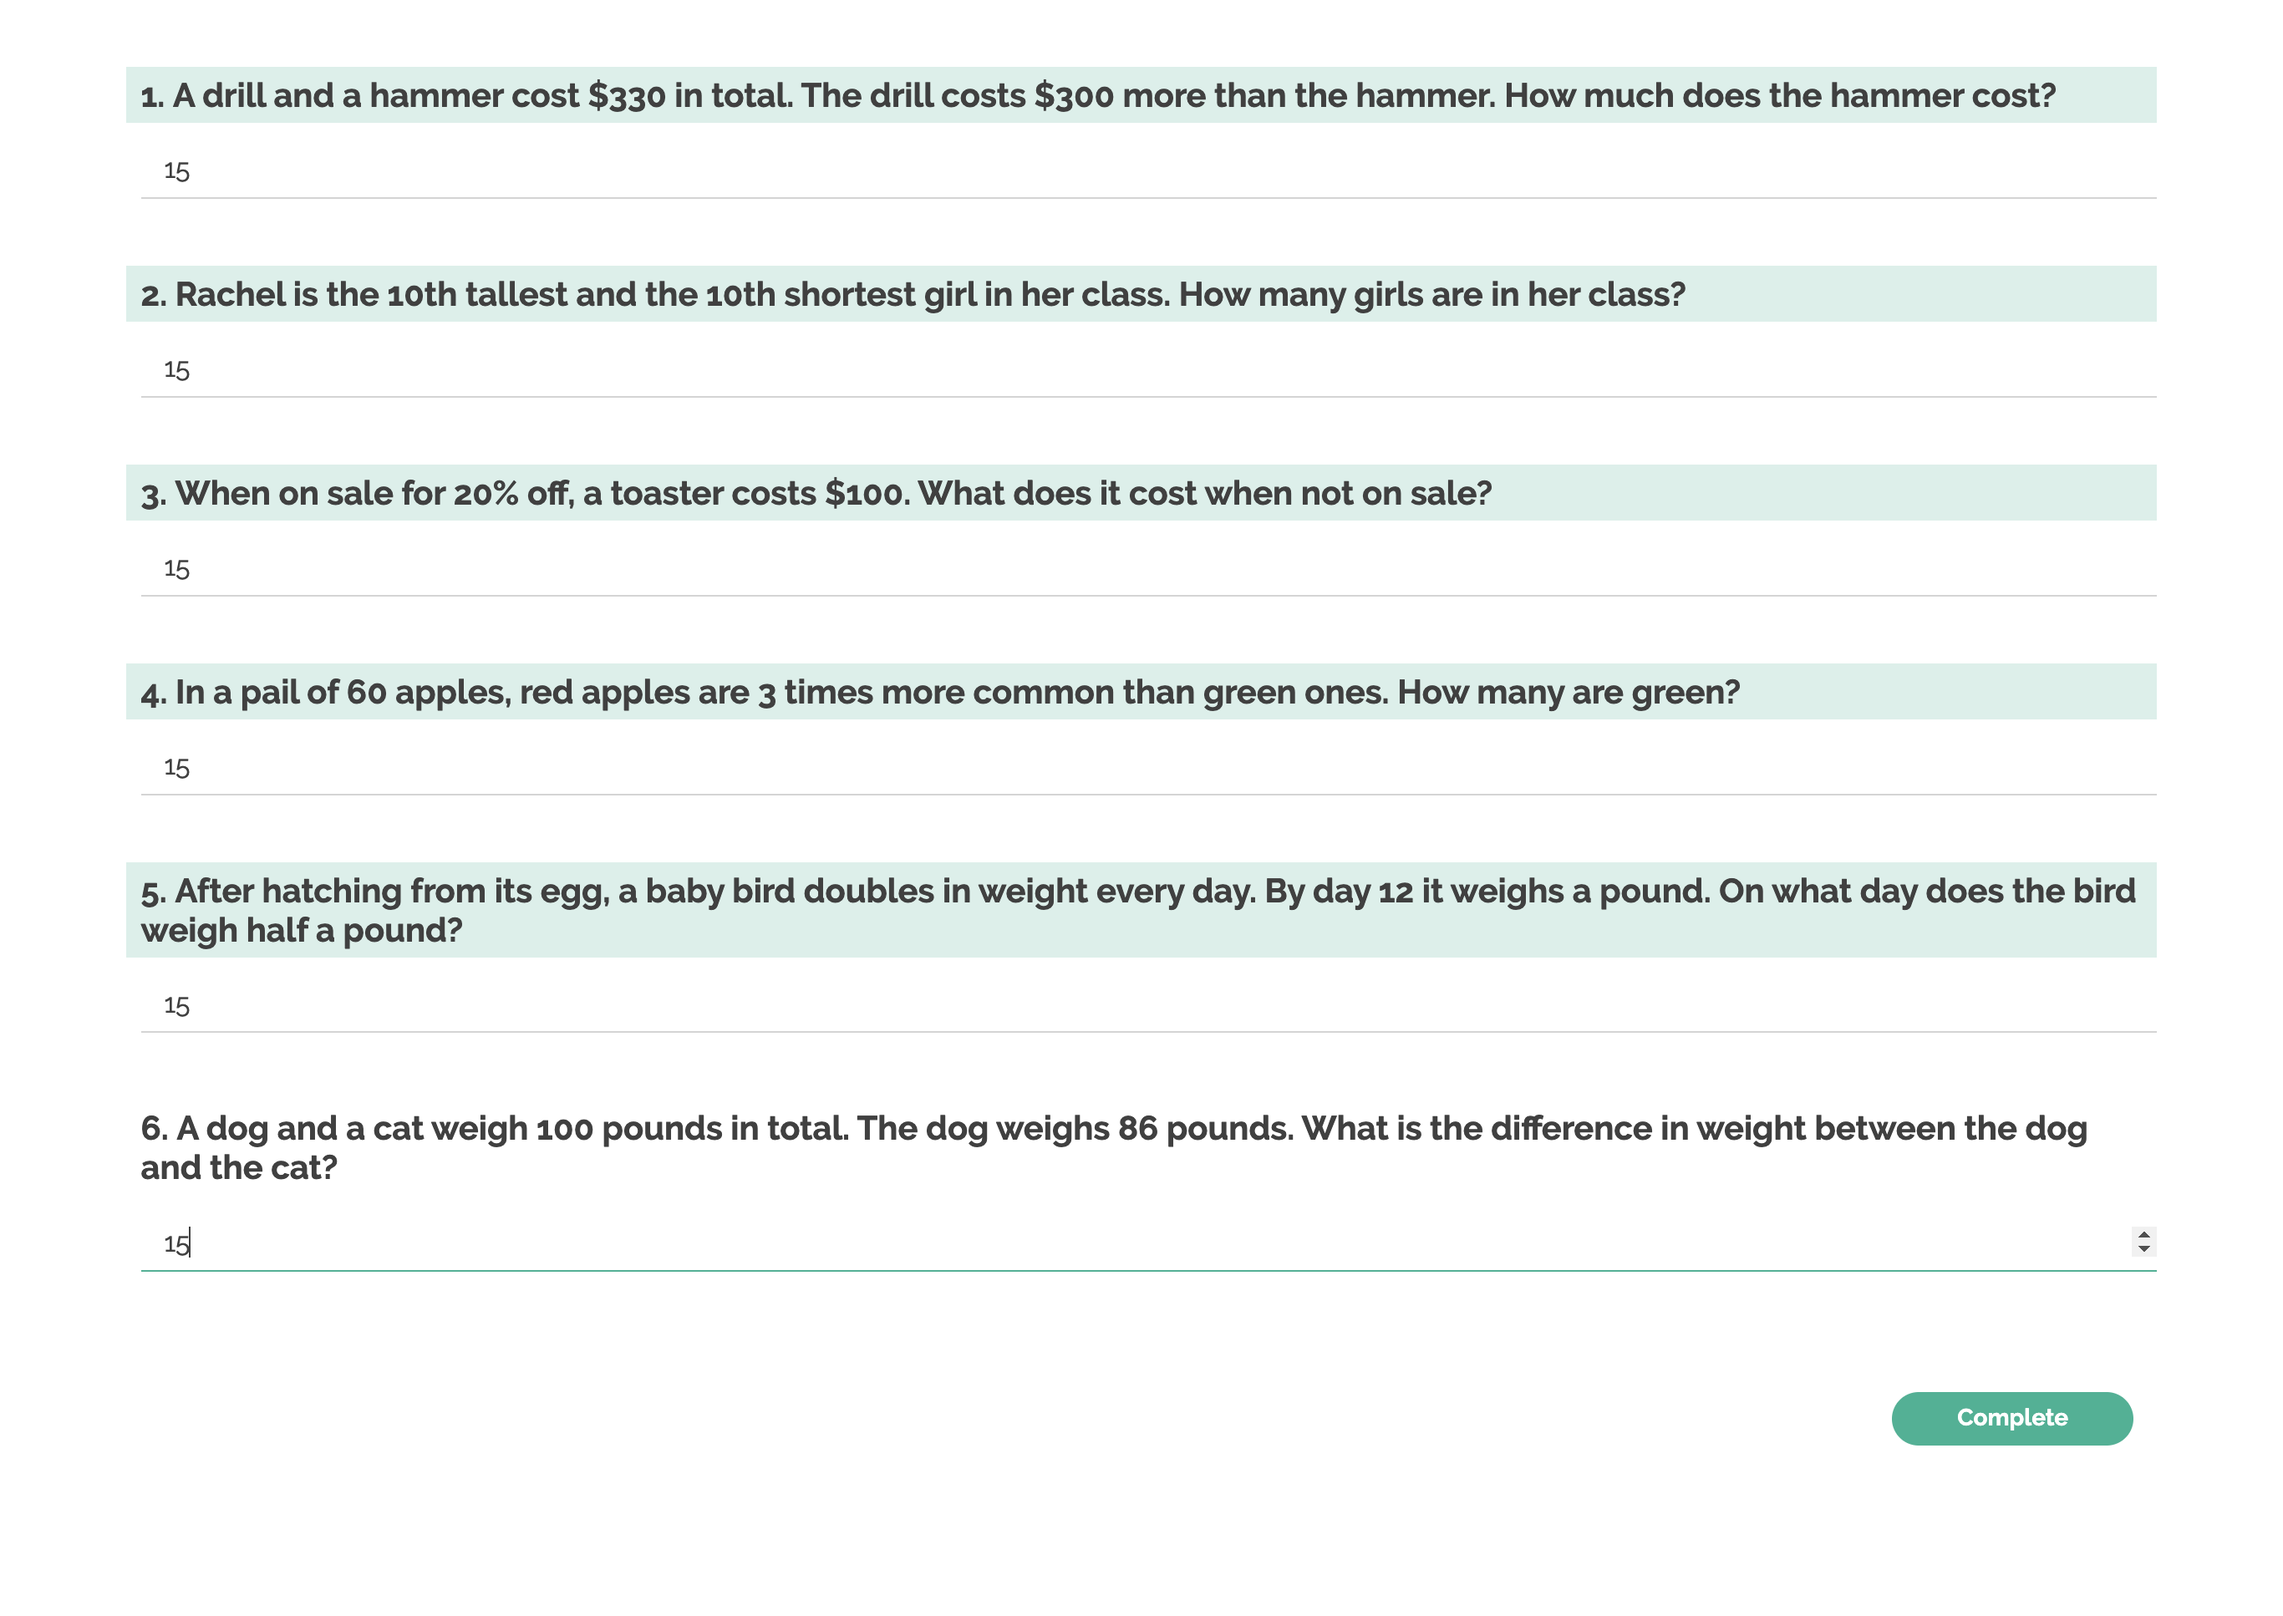
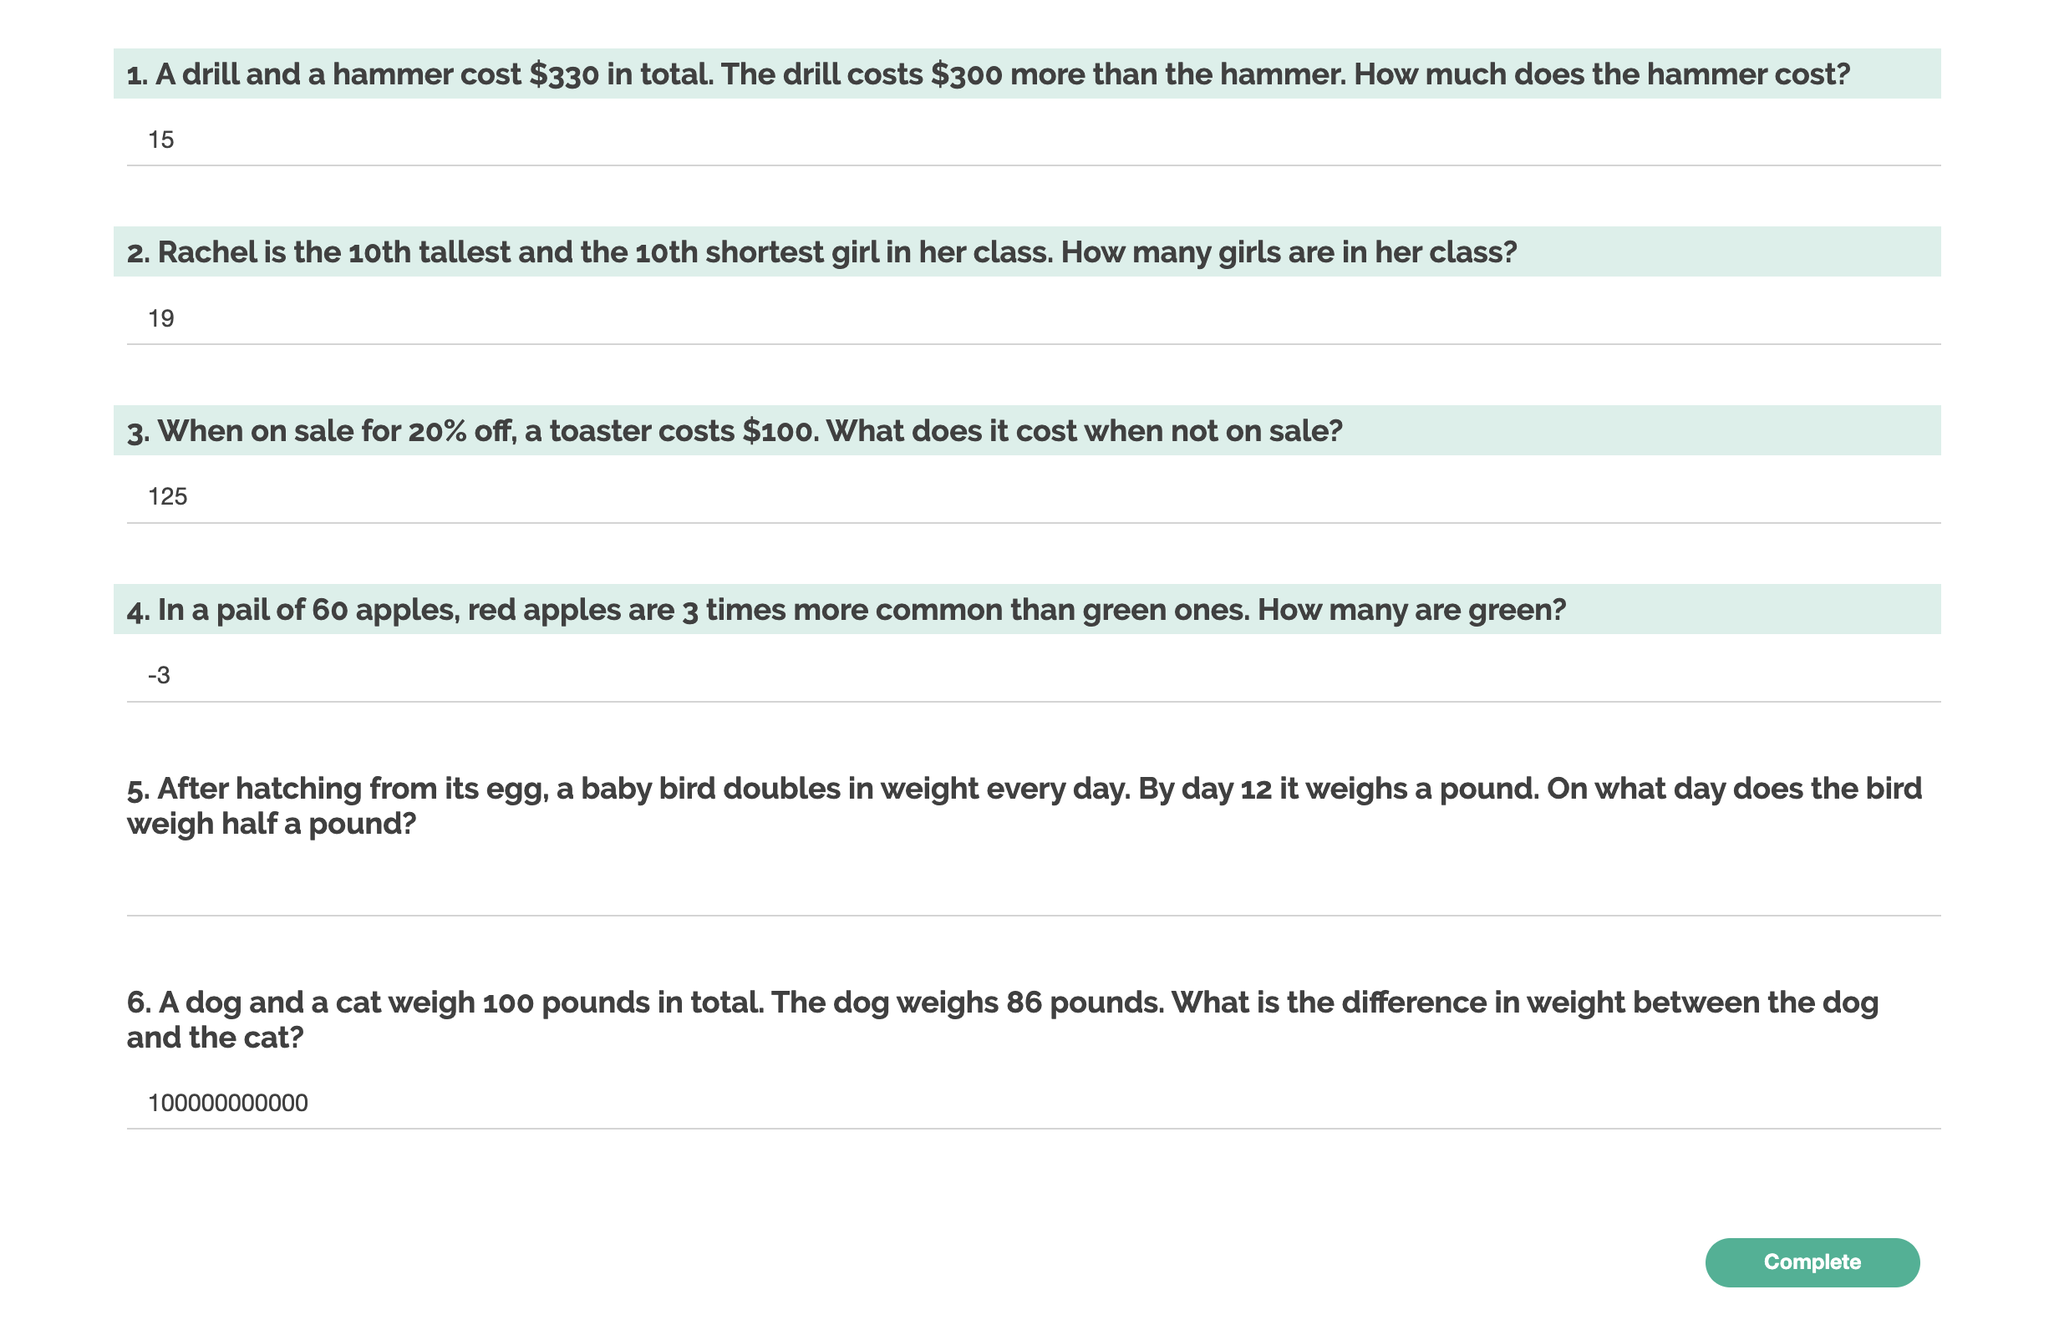
James crt test updates (#195)
* update feeling thermometer text

* fix slider over anchoring

* update test

* Update scoring and labels

* Update package.json

* merge main

* Delete screenshot.png

* update screenshots

* Update CRT test

* Update CRT test

* Add failing test

---------

diff --git a/surveys/CRT/CRT.cy.jsx b/surveys/CRT/CRT.cy.jsx
@@ -1,52 +1,64 @@
 import React from "react";
 import { CRT } from "../../src/index";
 
-const surveyJsonPath = "surveys/CRT/CRT.json";
-
 // Initialize an empty answers object
 
 const dummy = {
   set(response) {},
 };
 
-describe("RMETTen", () => {
+describe("CRT", () => {
+  it("fail if not entered correctly", () => {
+    cy.spy(dummy, "set").as("callback");
+    cy.mount(<CRT onComplete={dummy.set} />);
+    cy.viewport("macbook-11");
+
+    cy.get('[data-name="drill_hammer"] input[type="number"]').type(15); // correct
+    cy.get('[data-name="rachel"] input[type="number"]').type(19); // correct
+    cy.get('[data-name="toaster"] input[type="number"]').type(125); // correct
+    cy.get('[data-name="apples"] input[type="number"]').type(-3); // wrong
+    cy.get('[data-name="eggs"] input[type="number"]').type("cat"); // wrong
+    cy.get('[data-name="dog_cat"] input[type="number"]').type(100000000000); // wrong
+
+    cy.get("form") // submit surveyJS form
+      .then(($form) => {
+        cy.wrap($form.find('input[type="button"][value="Complete"]')).click();
+      });
+
+    cy.get(".sv-body").should("exist");
+
+    cy.get("@callback").should("not.have.been.called");
+  });
+
   it("completes the survey", () => {
     cy.spy(dummy, "set").as("callback");
     cy.mount(<CRT onComplete={dummy.set} />);
     cy.viewport("macbook-11");
 
-    cy.readFile(surveyJsonPath).then((surveyJson) => {
-      surveyJson.pages.forEach((page) => {
-        page.elements.forEach((element) => {
-          const numberToEnter = 15;
+    cy.get('[data-name="drill_hammer"] input[type="number"]').type(15); // correct
+    cy.get('[data-name="rachel"] input[type="number"]').type(19); // correct
+    cy.get('[data-name="toaster"] input[type="number"]').type(125); // correct
+    cy.get('[data-name="apples"] input[type="number"]').type(-3); // wrong
+    cy.get('[data-name="eggs"] input[type="number"]').type(10); // wrong
+    cy.get('[data-name="dog_cat"] input[type="number"]').type(100000000000); // wrong
 
-          cy.get(
-            `[data-name="${element.name}"] input[type="${element.inputType}"]`
-          ).type(numberToEnter);
+    cy.screenshot("CRT/screenshot", {
+      overwrite: true,
+    });
 
-          cy.get(
-            `[data-name="${element.name}"] input[type="${element.inputType}"]`
-          ).should("have.value", numberToEnter.toString());
-        });
+    cy.get("form") // submit surveyJS form
+      .then(($form) => {
+        cy.wrap($form.find('input[type="button"][value="Complete"]')).click();
       });
 
-      cy.screenshot("CRT/screenshot", {
-        overwrite: true,
-      });
+    cy.get(".sv-body").should("not.exist");
 
-      cy.get("form") // submit surveyJS form
-        .then(($form) => {
-          cy.wrap($form.find('input[type="button"][value="Complete"]')).click();
-        });
-
-      cy.get(".sv-body").should("not.exist");
-
-      cy.get("@callback").should("have.been.called");
-      cy.get("@callback").then((spy) => {
-        const spyCall = spy.getCall(-1).args[0];
-        console.log(spyCall);
-        expect(spyCall["result"]["score"]).to.eq(2.0);
-      });
+    cy.get("@callback").should("have.been.called");
+    cy.get("@callback").then((spy) => {
+      const spyCall = spy.getCall(-1).args[0];
+      console.log(spyCall);
+      expect(spyCall["result"]["score"]).to.eq(3);
+      expect(spyCall["result"]["normScore"]).to.eq((0.5).toFixed(3));
     });
   });
 });

diff --git a/surveys/CRT/CRT.score.js b/surveys/CRT/CRT.score.js
@@ -27,5 +27,5 @@ export default function scoreFunc(responses) {
     }
   });
 
-  return { score: score, maxScore: 6, minScore: 0, responses: responses };
+  return { score: score, normScore: (score / 6).toFixed(3) };
 }
